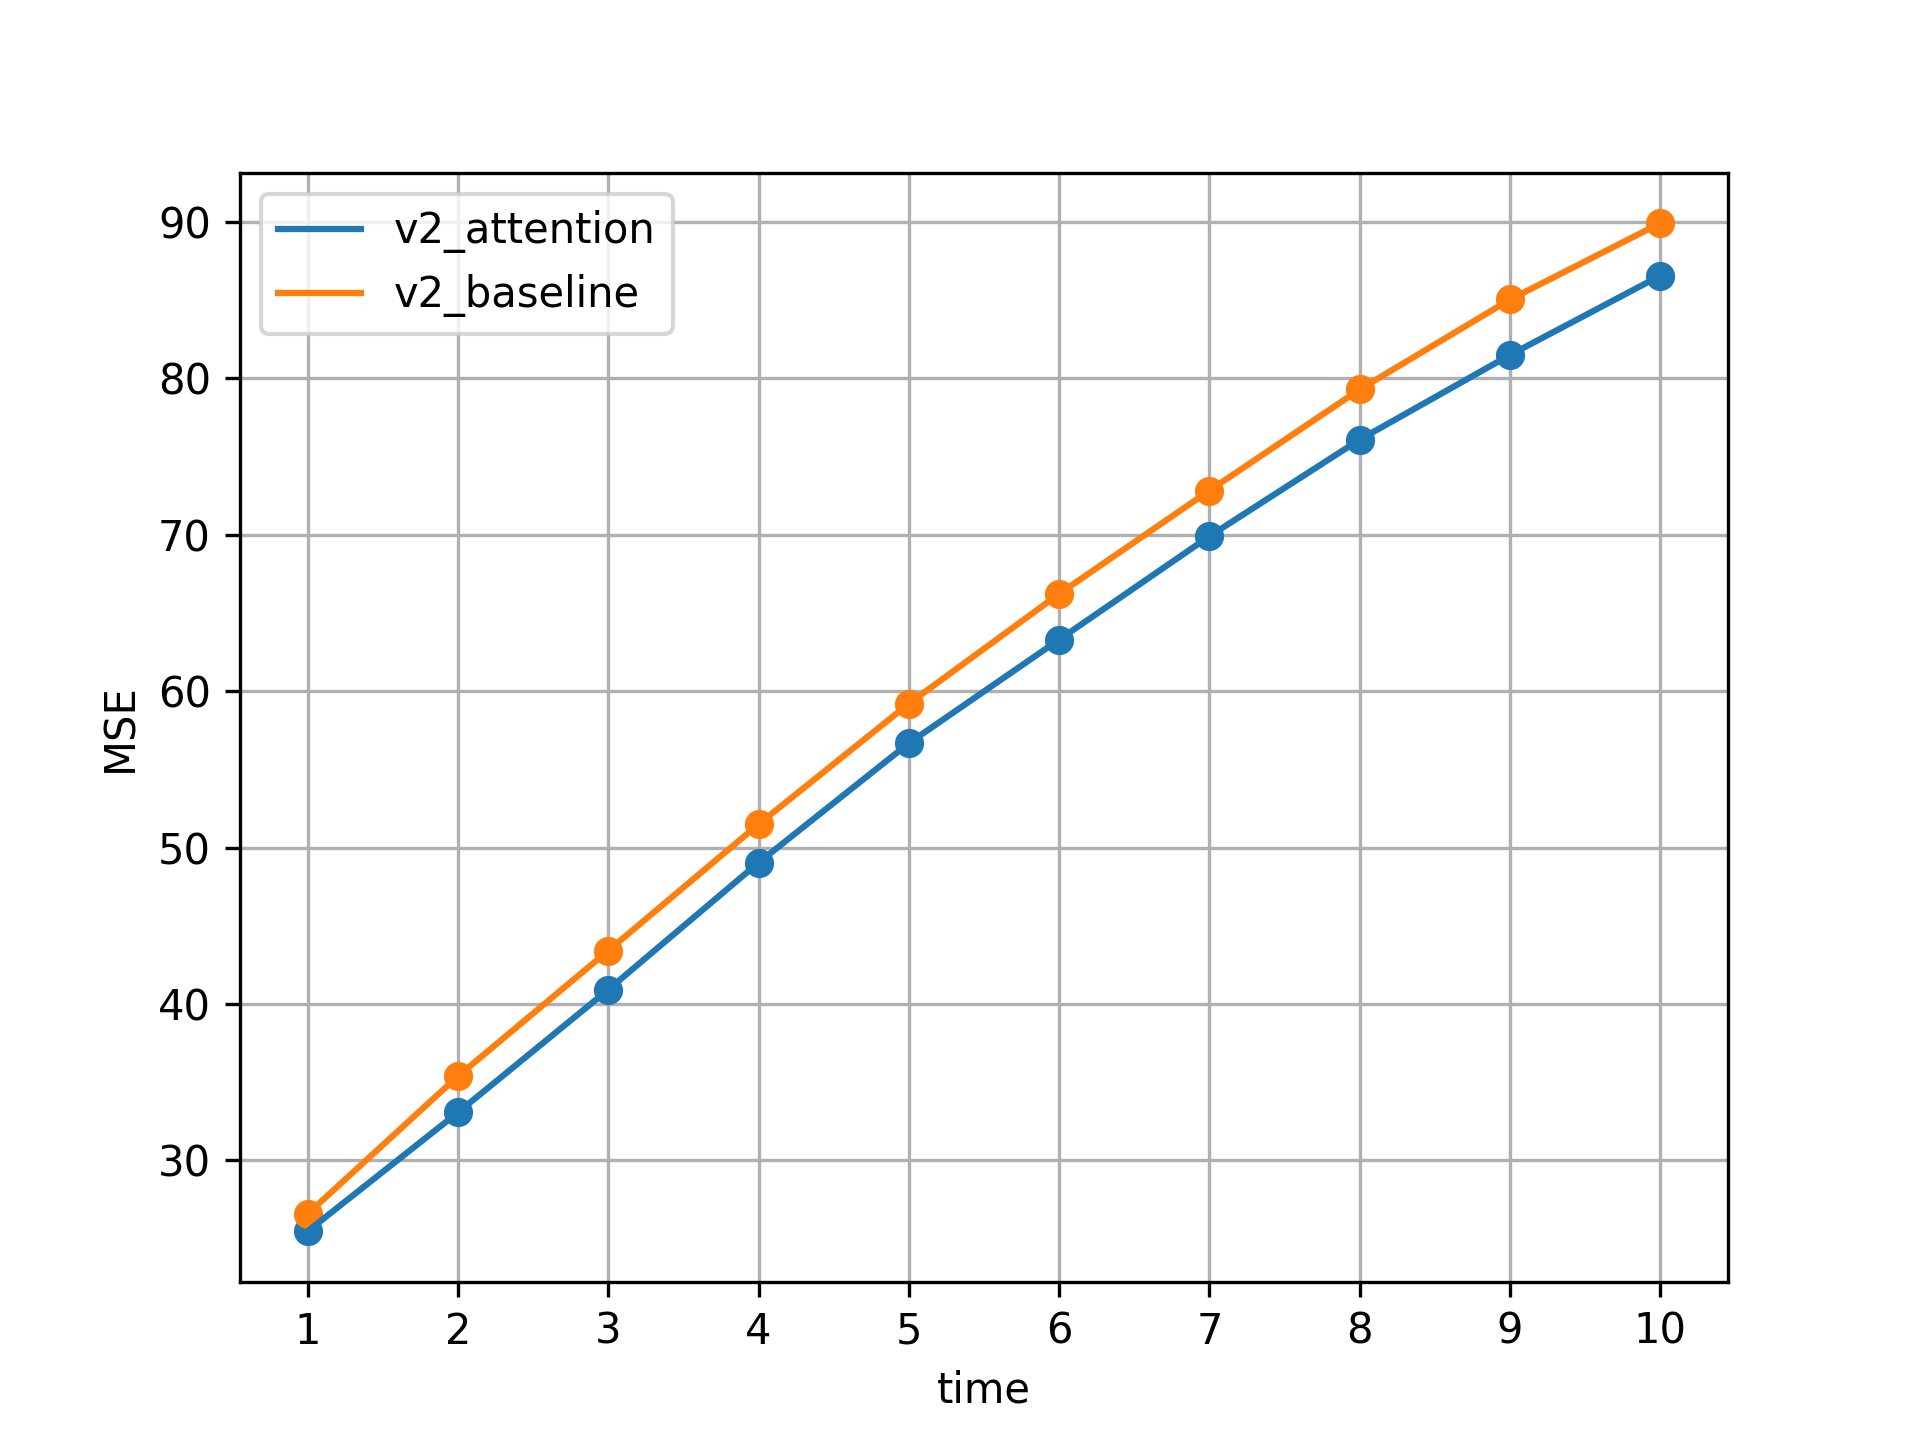
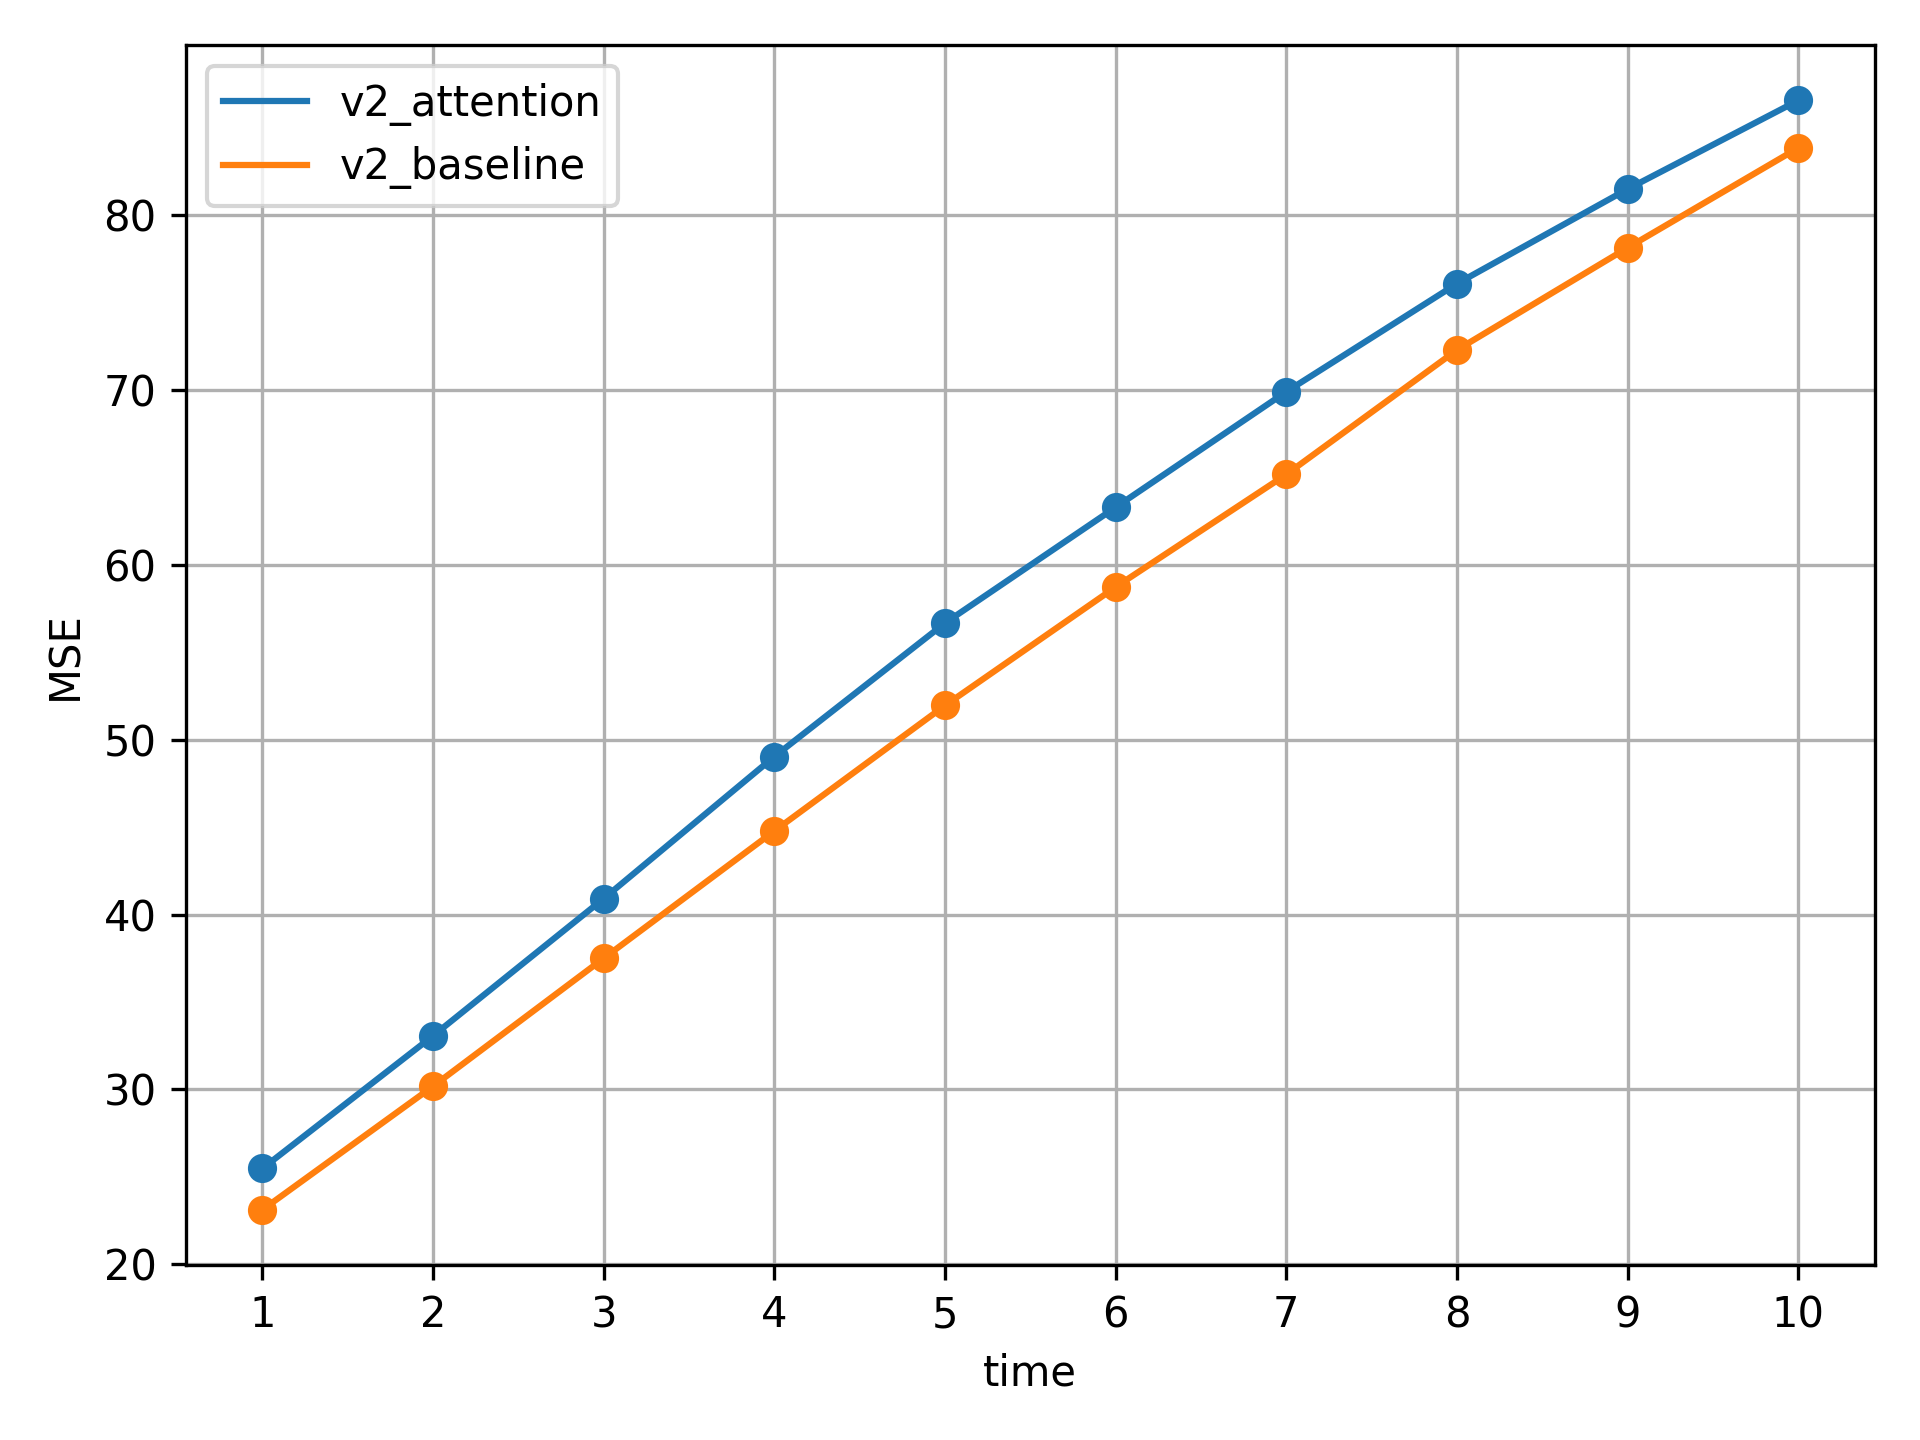
Fix measures over time plots

diff --git a/analysis.py b/analysis.py
@@ -109,6 +109,7 @@ if __name__ == '__main__':
         data['train'][variant] = load_train_data(variant)
 
     plot_loss(data)
+    plot_framewise_measures(data)
 
-    plot_framewise_measures_overtime(data, 'v2_attention')
-    plot_framewise_measures_overtime(data, 'v2_baseline')
+    # plot_framewise_measures_overtime(data, 'v2_attention')
+    # plot_framewise_measures_overtime(data, 'v2_baseline')
